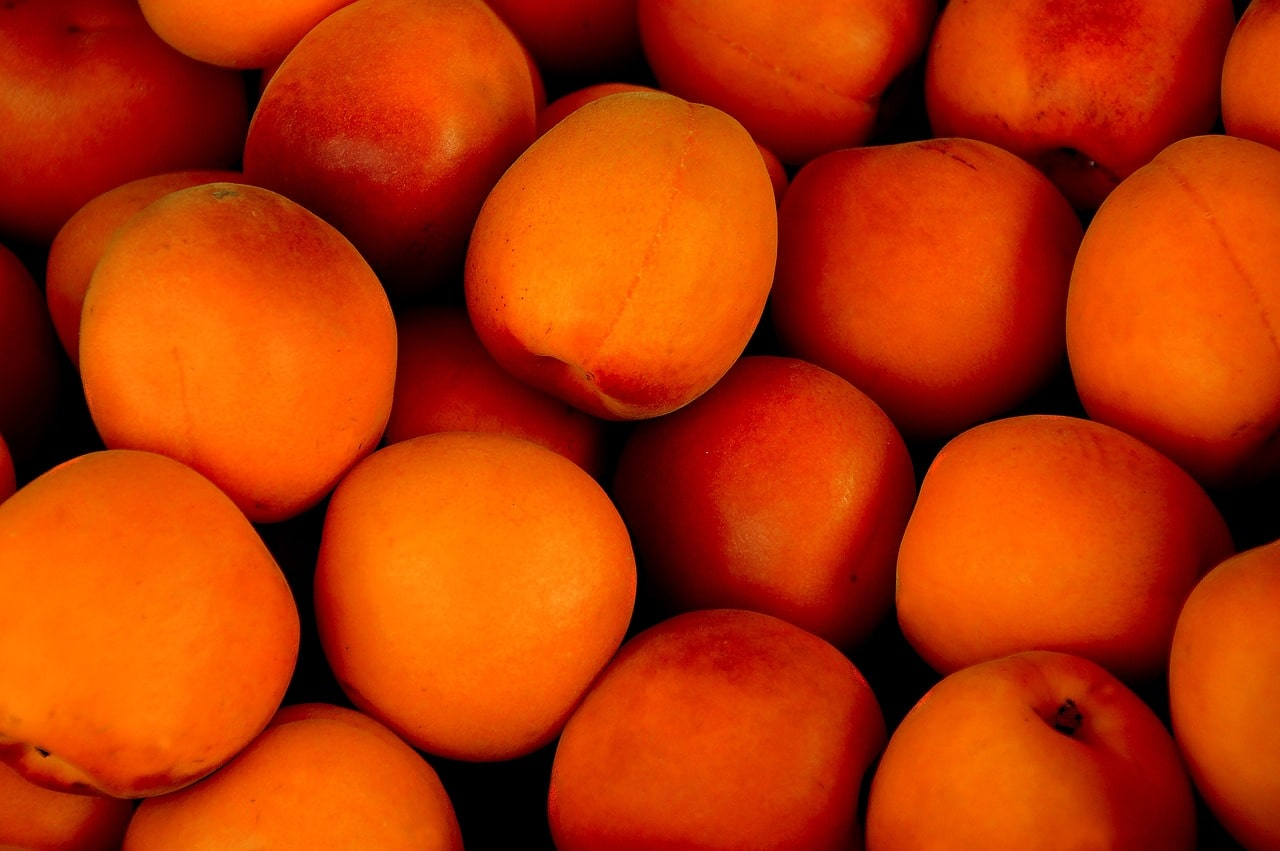
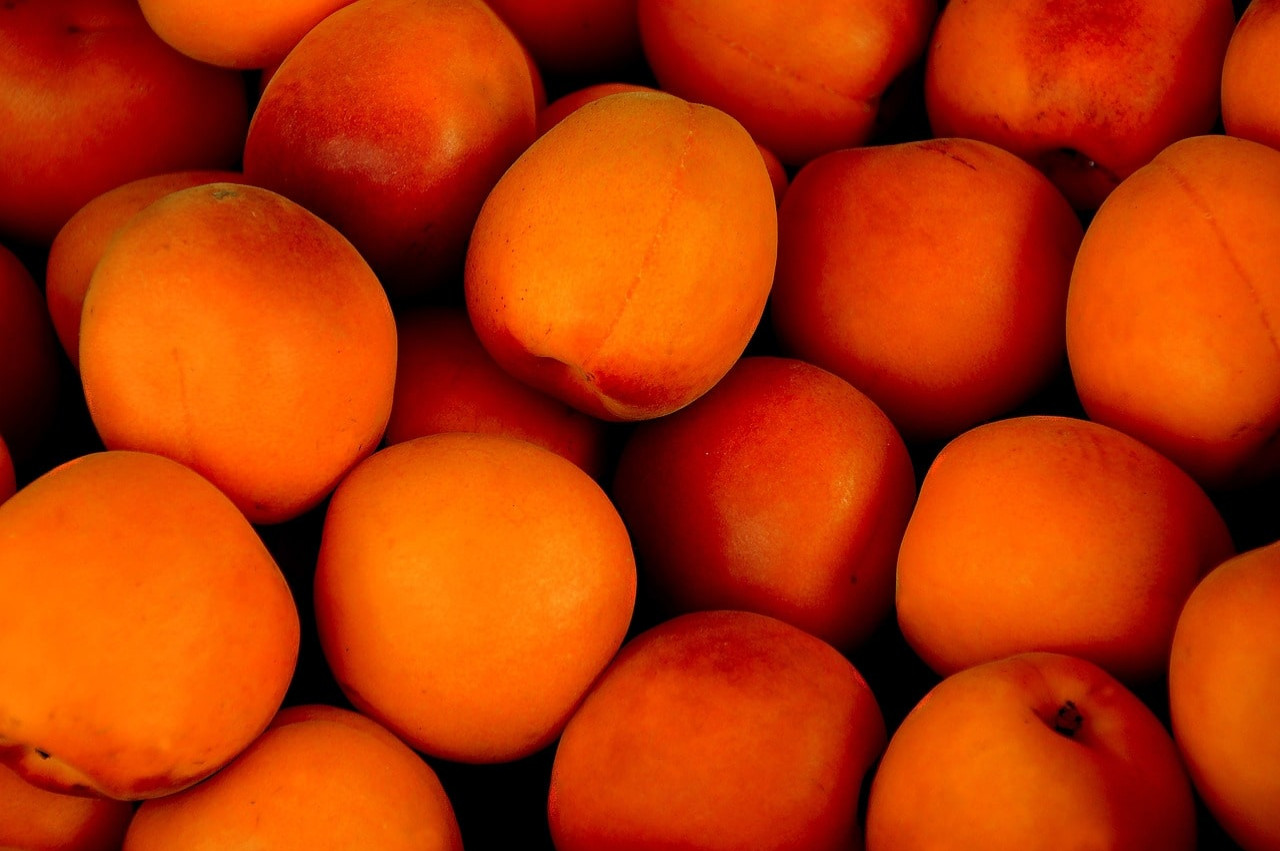
Ajustes das imagens de frutas

diff --git a/index.html b/index.html
@@ -20,7 +20,7 @@
             </div>
             <div class="nav-list">
                 <ul>
-                    <li class="nav-item"><a href="#" class="nav-link">Início</a></li>
+                    <li class="nav-item"><a href="#" class="nav-link">Pesquisa</a></li>
                     <li class="nav-item"><a href="#" class="nav-link">Projetos</a></li>
                     <li class="nav-item"><a href="#" class="nav-link"> Sobre</a></li>
                 </ul>
@@ -35,7 +35,7 @@
         </nav>
         <div class="mobile-menu">
             <ul>
-                <li class="nav-item"><a href="#" class="nav-link">Início</a></li>
+                <li class="nav-item"><a href="#" class="nav-link">Pesquisa</a></li>
                 <li class="nav-item"><a href="#" class="nav-link">Projetos</a></li>
                 <li class="nav-item"><a href="#" class="nav-link">Sobre</a></li>
             </ul>
@@ -56,13 +56,13 @@
     </div>
     <div class="carousel-inner">
       <div class="carousel-item active">
-        <img src="imagens/carrossel/img3.jpeg" class="d-block w-100" alt="...">
+        <img src="imagens/imgcarousel/img3.jpeg" class="d-block w-100" alt="...">
       </div>
       <div class="carousel-item">
-        <img src="imagens/carrossel/img2.jpeg" class="d-block w-100" alt="...">
+        <img src="imagens/imgcarousel/img2.jpeg" class="d-block w-100" alt="...">
       </div>
       <div class="carousel-item">
-        <img src="imagens/carrossel/img3.jpeg" class="d-block w-100" alt="...">
+        <img src="imagens/imgcarousel/img3.jpeg" class="d-block w-100" alt="...">
       </div>
     </div>
     <button class="carousel-control-prev" type="button" data-bs-target="#carouselExampleIndicators" data-bs-slide="prev">
@@ -92,74 +92,74 @@
   
 <div class="card-container">
     <div class="card">
-      <img src="assets/imgcard/apricots.jpg" alt="Avatar" style="width:100%">
+      <img src="imagens/produtos/frutas/apricots-min.jpg" alt="Avatar" style="width:100%">
       <div class="container">
-        <h2>John Doe</h2>
-        <h3>10,00</h3> 
-        <p><button>Contact</button></p>
-      </div>
-    </div>
-    
-    <div class="card">
-      <img src="assets/imgcard/pexels-pixabay-min.jpg" alt="Avatar" style="width:100%">
-      <div class="container">
-        <h2>John Doe</h2>
-        <h3>10,00</h3> 
-        <p><button>Contact</button></p>
+        <h2>Damasco</h2>
+        <h3>R$ 7,80</h3> 
+        <p><button>Ver</button></p>
       </div>
     </div>
     
     <div class="card">
       <img src="imagens/produtos/frutas/berries-min.jpg" alt="Avatar" style="width:100%">
       <div class="container">
-        <h2>John Doe</h2>
-        <h3>10,00</h3> 
-        <p><button>Contact</button></p>
+        <h2>Fruta vermelhas</h2>
+        <h3>R$ 5,45</h3> 
+        <p><button>Ver</button></p>
       </div>
     </div>
     
     <div class="card">
-      <img src="imagens/produtos/frutas/oranges-21min.jpg" alt="Avatar" style="width:100%">
+      <img src="imagens/produtos/frutas/apples-min.jpg" alt="Avatar" style="width:100%">
       <div class="container">
-        <h2>John Doe</h2>
-        <h3>10,00</h3> 
-        <p><button>Contact</button></p>
-      </div>
-    </div>
-    
-    <div class="card">
-      <img src="assets/imgcard/pexels-rp-photography-min.jpg" alt="Avatar" style="width:100%">
-      <div class="container">
-        <h2>John Doe</h2>
-        <h3>10,00</h3> 
-        <p><button>Contact</button></p>
-      </div>
-    </div>
-    
-    <div class="card">
-      <img src="imagens/produtos/frutas/fruits-min.jpg" alt="Avatar" style="width:100%">
-      <div class="container">
-        <h2>John Doe</h2>
-        <h3>10,00</h3> 
-        <p><button>Contact</button></p>
+        <h2>Maçã verde</h2>
+        <h3>R$ 6,55</h3> 
+        <p><button>Ver</button></p>
       </div>
     </div>
     
     <div class="card">
       <img src="imagens/produtos/frutas/lemons-min.jpg" alt="Avatar" style="width:100%">
       <div class="container">
-        <h2>John Doe</h2>
-        <h3>10,00</h3> 
-        <p><button>Contact</button></p>
+        <h2>Limão</h2>
+        <h3>R$ 10,00</h3> 
+        <p><button>Ver</button></p>
+      </div>
+    </div>
+    
+    <div class="card">
+      <img src="imagens/produtos/frutas/oranges-min.jpg" alt="Avatar" style="width:100%">
+      <div class="container">
+        <h2>Laranja</h2>
+        <h3>R$ 10,00</h3> 
+        <p><button>Ver</button></p>
       </div>
     </div>
     
     <div class="card">
       <img src="imagens/produtos/frutas/peaches-min.jpg" alt="Avatar" style="width:100%">
       <div class="container">
-        <h2>John Doe</h2>
-        <h3>10,00</h3> 
-        <p><button>Contact</button></p>
+        <h2>Pessêgo</h2>
+        <h3>R$ 11,20</h3> 
+        <p><button>Ver</button></p>
+      </div>
+    </div>
+    
+    <div class="card">
+      <img src="imagens/produtos/frutas/pears-min.jpg" alt="Avatar" style="width:100%">
+      <div class="container">
+        <h2>Pêra</h2>
+        <h3> R$ 3,12</h3> 
+        <p><button>Ver</button></p>
+      </div>
+    </div>
+    
+    <div class="card">
+      <img src="imagens/produtos/frutas/strawbery-min.png" alt="Avatar" style="width:100%">
+      <div class="container">
+        <h2>Morango</h2>
+        <h3>R$ 10,00</h3> 
+        <p><button>Ver</button></p>
       </div>
     </div>
 </div>
@@ -177,77 +177,77 @@
         <div class="text-center"> 
       <svg class="bd-placeholder-img rounded-circle" width="140" height="140" xmlns="http://www.w3.org/2000/svg" role="img" aria-label="Placeholder" preserveAspectRatio="xMidYMid slice" focusable="false"><title>Placeholder</title><rect width="100%" height="100%" fill="var(--bs-secondary-color)"></rect></svg>
       </div>
-      <h2 class="fw-normal text-center">Heading</h2>
-      <p class="text-center">Some representative placeholder content for the three columns of text below the carousel. This is the first column.</p>
-      <p class="text-center"><a class="btn btn-secondary" href="#">View details »</a></p>
+      <h2 class="fw-normal text-center">Supermercado</h2>
+      <p class="text-center">Mercado com campanha promocional.</p>
+      <p class="text-center"><a class="btn btn-secondary" href="#">Ver detalhes »</a></p>
     </div><!-- /.col-lg-4 -->
 
     <div class="col-lg-4">
-        <div class="text-center"> 
-      <svg class="bd-placeholder-img rounded-circle" width="140" height="140" xmlns="http://www.w3.org/2000/svg" role="img" aria-label="Placeholder" preserveAspectRatio="xMidYMid slice" focusable="false"><title>Placeholder</title><rect width="100%" height="100%" fill="var(--bs-secondary-color)"></rect></svg>
-      </div>
-      <h2 class="fw-normal text-center">Heading</h2>
-      <p class="text-center">Another exciting bit of representative placeholder content. This time, we've moved on to the second column.</p>
-      <p class="text-center"><a class="btn btn-secondary" href="#">View details »</a></p>
-    </div><!-- /.col-lg-4 -->
+      <div class="text-center"> 
+    <svg class="bd-placeholder-img rounded-circle" width="140" height="140" xmlns="http://www.w3.org/2000/svg" role="img" aria-label="Placeholder" preserveAspectRatio="xMidYMid slice" focusable="false"> <title>Placeholder</title><rect width="100%" height="100%" fill="var(--bs-secondary-color)"></rect></svg>
+    </div>
+    <h2 class="fw-normal text-center">Mercadinho</h2>
+    <p class="text-center">Mercado com campanha promocional.</p>
+    <p class="text-center"><a class="btn btn-secondary" href="#">Ver detalhes »</a></p>
+  </div><!-- /.col-lg-4 -->
 
-    <div class="col-lg-4">
-        <div class="text-center"> 
-      <svg class="bd-placeholder-img rounded-circle" width="140" height="140" xmlns="http://www.w3.org/2000/svg" role="img" aria-label="Placeholder" preserveAspectRatio="xMidYMid slice" focusable="false"><title>Placeholder</title><rect width="100%" height="100%" fill="var(--bs-secondary-color)"></rect></svg>
-      </div>
-      <h2 class="fw-normal text-center">Heading</h2>
-      <p class="text-center">And lastly this, the third column of representative placeholder content.</p>
-      <p class="text-center"><a class="btn btn-secondary" href="#">View details »</a></p>
-    </div><!-- /.col-lg-4 -->
+  <div class="col-lg-4">
+    <div class="text-center"> 
+  <svg class="bd-placeholder-img rounded-circle" width="140" height="140" xmlns="http://www.w3.org/2000/svg" role="img" aria-label="Placeholder" preserveAspectRatio="xMidYMid slice" focusable="false"><title>Placeholder</title><rect width="100%" height="100%" fill="var(--bs-secondary-color)"></rect></svg>
+  </div>
+  <h2 class="fw-normal text-center">Mercadinho</h2>
+  <p class="text-center">Mercado com campanha promocional.</p>
+  <p class="text-center"><a class="btn btn-secondary" href="#">Ver detalhes »</a></p>
+</div><!-- /.col-lg-4 -->
 </div>
 
 <!--IMAGEM GRANDE-->
 
 <div class="p-4 p-md-5 mb-4 rounded text-body-emphasis bg-body-secondary">
-    <div class="col-lg-6 px-0">
-      <h1 class="display-4 fst-italic">Title of a longer featured blog post</h1>
-      <p class="lead my-3">Multiple lines of text that form the lede, informing new readers quickly and efficiently about what’s most interesting in this post’s contents.</p>
-      <p class="lead mb-0"><a href="#" class="text-body-emphasis fw-bold">Continue reading...</a></p>
-    </div>
+  <div class="col-lg-6 px-0">
+    <h1 class="display-4 fst-italic">A Smartlist é um projeto do TCC</h1>
+    <p class="lead my-3">Lorem ipsum dolor sit amet consectetur adipisicing elit. Necessitatibus hic dolorum illum illo possimus labore molestiae, sit cum fuga laudantium ipsum ea non quidem unde tenetur nesciunt eos quisquam nihil!.</p>
+    <p class="lead mb-0"><a href="#" class="text-body-emphasis fw-bold">Continuar lendo...</a></p>
   </div>
+</div>
 
 <!--PENULTIMA IMAGEM-->  
 
 <div class="row mb-2">
-    <div class="col-md-6">
-      <div class="row g-0 border rounded overflow-hidden flex-md-row mb-4 shadow-sm h-md-250 position-relative">
-        <div class="col p-4 d-flex flex-column position-static">
-          <strong class="d-inline-block mb-2 text-primary-emphasis">World</strong>
-          <h3 class="mb-0">Featured post</h3>
-          <div class="mb-1 text-body-secondary">Nov 12</div>
-          <p class="card-text mb-auto">This is a wider card with supporting text below as a natural lead-in to additional content.</p>
-          <a href="#" class="icon-link gap-1 icon-link-hover stretched-link">
-            Continue reading
-            <svg class="bi"><use xlink:href="#chevron-right"></use></svg>
-          </a>
-        </div>
-        <div class="col-auto d-none d-lg-block">
-          <svg class="bd-placeholder-img" width="200" height="250" xmlns="http://www.w3.org/2000/svg" role="img" aria-label="Placeholder: Thumbnail" preserveAspectRatio="xMidYMid slice" focusable="false"><title>Placeholder</title><rect width="100%" height="100%" fill="#55595c"></rect><text x="50%" y="50%" fill="#eceeef" dy=".3em">Thumbnail</text></svg>
-        </div>
+  <div class="col-md-6">
+    <div class="row g-0 border rounded overflow-hidden flex-md-row mb-4 shadow-sm h-md-250 position-relative">
+      <div class="col p-4 d-flex flex-column position-static">
+        <strong class="d-inline-block mb-2 text-primary-emphasis">Smartlist</strong>
+        <h3 class="mb-0">Trabalho de conclusão</h3>
+        <div class="mb-1 text-body-secondary">12/11</div>
+        <p class="card-text mb-auto">Lorem ipsum dolor sit amet consectetur adipisicing elit. Fugit, aspernatur, dignissimos praesentium nesciunt earum iure nostrum veniam, hic dolorem nam maxime quibusdam sed commodi aperiam ea. Deleniti quae qui facilis?</p>
+        <a href="#" class="icon-link gap-1 icon-link-hover stretched-link">
+          Continuar lendo
+          <svg class="bi"><use xlink:href="#chevron-right"></use></svg>
+        </a>
+      </div>
+      <div class="col-auto d-none d-lg-block">
+        <svg class="bd-placeholder-img" width="200" height="250" xmlns="http://www.w3.org/2000/svg" role="img" aria-label="Placeholder: Thumbnail" preserveAspectRatio="xMidYMid slice" focusable="false"><title>Placeholder</title><rect width="100%" height="100%" fill="#55595c"></rect><text x="50%" y="50%" fill="#eceeef" dy=".3em">Thumbnail</text></svg>
       </div>
     </div>
-    <div class="col-md-6">
-      <div class="row g-0 border rounded overflow-hidden flex-md-row mb-4 shadow-sm h-md-250 position-relative">
-        <div class="col p-4 d-flex flex-column position-static">
-          <strong class="d-inline-block mb-2 text-success-emphasis">Design</strong>
-          <h3 class="mb-0">Post title</h3>
-          <div class="mb-1 text-body-secondary">Nov 11</div>
-          <p class="mb-auto">This is a wider card with supporting text below as a natural lead-in to additional content.</p>
-          <a href="#" class="icon-link gap-1 icon-link-hover stretched-link">
-            Continue reading
-            <svg class="bi"><use xlink:href="#chevron-right"></use></svg>
-          </a>
-        </div>
-        <div class="col-auto d-none d-lg-block">
-          <svg class="bd-placeholder-img" width="200" height="250" xmlns="http://www.w3.org/2000/svg" role="img" aria-label="Placeholder: Thumbnail" preserveAspectRatio="xMidYMid slice" focusable="false"><title>Placeholder</title><rect width="100%" height="100%" fill="#55595c"></rect><text x="50%" y="50%" fill="#eceeef" dy=".3em">Thumbnail</text></svg>
-        </div>
+  </div>
+  <div class="col-md-6">
+    <div class="row g-0 border rounded overflow-hidden flex-md-row mb-4 shadow-sm h-md-250 position-relative">
+      <div class="col p-4 d-flex flex-column position-static">
+        <strong class="d-inline-block mb-2 text-success-emphasis">Smartlist</strong>
+        <h3 class="mb-0">Trabalho de Conclusão</h3>
+        <div class="mb-1 text-body-secondary">11/11</div>
+        <p class="mb-auto">Lorem ipsum dolor sit amet consectetur adipisicing elit. Amet, ducimus asperiores. Nesciunt voluptatem veniam incidunt praesentium! Quas quae mollitia quo odio ducimus natus magni corporis, dolorum placeat aperiam libero suscipit?</p>
+        <a href="#" class="icon-link gap-1 icon-link-hover stretched-link">
+          Continuar lendo
+          <svg class="bi"><use xlink:href="#chevron-right"></use></svg>
+        </a>
+      </div>
+      <div class="col-auto d-none d-lg-block">
+        <svg class="bd-placeholder-img" width="200" height="250" xmlns="http://www.w3.org/2000/svg" role="img" aria-label="Placeholder: Thumbnail" preserveAspectRatio="xMidYMid slice" focusable="false"><title>Placeholder</title><rect width="100%" height="100%" fill="#55595c"></rect><text x="50%" y="50%" fill="#eceeef" dy=".3em">Thumbnail</text></svg>
       </div>
     </div>
+  </div>
 </div>
 
 <!--RODAPÉ-->

diff --git a/assets/css/style.css b/assets/css/style.css
@@ -82,6 +82,8 @@ header {
     display: none;
 }
 
+
+
 @media screen and (max-width: 730px) {
     .nav-bar {
         padding: 1.5rem 4rem;
@@ -192,12 +194,19 @@ header {
   }
   
 /*PARAGRAFO NOME PROMOÇÃO*/
-
 .promocao {
     text-align: center;
     margin: 20px;
   }
   
+  .text-center > .rounded-circle{
+    background-image: url('cliente/assets/imgsuper/supermarket-min.png');
+    background-position: center;
+    background-size: contain;
+    background-attachment: local;
+    filter: contrast(2);
+  } 
+    
   @media only screen and (max-width: 730px) {
     .promocao {
       font-size: 1rem;
@@ -209,6 +218,14 @@ header {
 .img-fluid{
   width: 100px; height: 100px;
 }
+
+.text-center > .rounded-circle{
+  background-image: url('cliente/assets/imgsuper/supermarket-min.png');
+  background-position: center;
+  background-size: contain;
+  background-attachment: local;
+  filter: contrast(2);
+} 
 
 /*RODAPÉ*/
 
@@ -261,8 +278,9 @@ footer {
   
   /*PARTE DOS ÍCONES DAS REDES SOCIAIS*/
   footer > .conteudo-rodape > .redes-sociais > .bi-facebook, .bi-instagram, .bi-twitter-x{
-    font-size: 25px;
+    font-size: 20px;
     cursor: pointer;
+    top: -13%;
   }
 
   footer > .conteudo-rodape > .redes-sociais > .bi-facebook{
@@ -286,15 +304,6 @@ footer {
   /*RODAPÉ RESPONSIVO*/
   
   @media only screen and (max-width: 730px) {
-
-    .text-center > .rounded-circle{
-      background-image: url('/imagens/supermarket-2011060_1280-min.png');
-      background-position: center;
-      background-size: contain;
-      background-attachment: local;
-      filter: contrast(2);
-    } 
-
     footer {
         flex-direction: column;
         text-align: center;
@@ -311,12 +320,12 @@ footer {
         margin-bottom: 10px;
     }
 
-        /*PARTE DOS ÍCONES DAS REDES SOCIAIS*/
+    /*PARTE DOS ÍCONES DAS REDES SOCIAIS*/
     footer > .conteudo-rodape > .redes-sociais > .bi-facebook, .bi-instagram, .bi-twitter-x{
       font-size: 16px;
       cursor: pointer;
     }
-B
+
     footer > .conteudo-rodape > .redes-sociais > .bi-facebook{
       position: relative;
       left: 5%;

diff --git a/cliente/index.html b/cliente/index.html
@@ -227,7 +227,7 @@
           <div class="mb-1 text-body-secondary">12/11</div>
           <p class="card-text mb-auto">Lorem ipsum dolor sit amet consectetur adipisicing elit. Fugit, aspernatur, dignissimos praesentium nesciunt earum iure nostrum veniam, hic dolorem nam maxime quibusdam sed commodi aperiam ea. Deleniti quae qui facilis?</p>
           <a href="#" class="icon-link gap-1 icon-link-hover stretched-link">
-            Continuar lindo
+            Continuar lendo
             <svg class="bi"><use xlink:href="#chevron-right"></use></svg>
           </a>
         </div>
